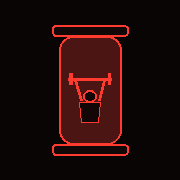
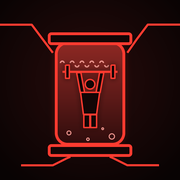
Add files via upload

Changed region(s): [[0.0, 0.1111, 1.0, 0.9444]]

diff --git a/exercices.js b/exercices.js
@@ -1,0 +1,54 @@
+// Format : [nom, muscle principal, secondaires (virgules), lieu (S=salle, M=maison, SM=les deux), étapes (séparées par |), id image optionnel]
+// Textes rédigés pour FORGE (aucune licence). Images : dépôt public free-exercise-db (Unlicense) via le champ 6.
+window.EXOS_RAW=[
+['Développé couché','Pectoraux','Épaules,Triceps','S','Allonge-toi, pieds au sol, omoplates serrées.|Descends la barre au milieu des pectoraux, coudes à 45°.|Pousse jusqu’à l’extension sans verrouiller les coudes.','Barbell_Bench_Press_-_Medium_Grip'],
+['Développé incliné haltères','Pectoraux','Épaules,Triceps','S','Règle le banc à 30°, haltères au niveau des épaules.|Pousse vers le haut en rapprochant les haltères.|Redescends lentement jusqu’à l’étirement des pectoraux.'],
+['Écarté couché haltères','Pectoraux','Épaules','S','Bras légèrement fléchis, haltères au-dessus de la poitrine.|Ouvre les bras en arc jusqu’à sentir l’étirement.|Ramène les haltères comme si tu serrais un arbre.'],
+['Pec deck (papillon)','Pectoraux','Épaules','S','Dos bien calé, poignées à hauteur de poitrine.|Rapproche les bras devant toi en contractant.|Reviens lentement sans lâcher la charge.'],
+['Pompes','Pectoraux','Triceps,Épaules,Abdominaux','M','Mains un peu plus larges que les épaules, corps gainé.|Descends la poitrine près du sol, coudes à 45°.|Pousse pour remonter sans cambrer.'],
+['Pompes déclinées','Pectoraux','Épaules,Triceps','M','Pieds surélevés sur une chaise, corps aligné.|Descends en contrôlant jusqu’à frôler le sol.|Remonte en poussant fort.'],
+['Dips aux barres parallèles','Pectoraux','Triceps,Épaules','SM','Penche légèrement le buste vers l’avant.|Descends jusqu’à 90° aux coudes.|Pousse pour remonter sans balancer.'],
+['Traction','Dos','Biceps,Avant-bras','SM','Prise un peu plus large que les épaules, bras tendus.|Tire les coudes vers le bas jusqu’au menton au-dessus de la barre.|Redescends lentement jusqu’à l’extension.','Pullups'],
+['Tirage vertical','Dos','Biceps','S','Cuisses calées sous les coussins, buste droit.|Tire la barre vers le haut de la poitrine.|Remonte en contrôlant.'],
+['Rowing barre','Dos','Biceps,Ischios,Avant-bras','S','Buste penché à 45°, dos plat, barre aux genoux.|Tire la barre vers le nombril.|Redescends sans arrondir le dos.'],
+['Rowing haltère un bras','Dos','Biceps,Épaules','SM','Un genou et une main sur un banc, dos plat.|Tire l’haltère vers la hanche, coude près du corps.|Redescends en étirant le dos.'],
+['Tirage horizontal poulie','Dos','Biceps,Épaules','S','Assis, buste droit, poignée à deux mains.|Tire vers le ventre en serrant les omoplates.|Reviens bras tendus sans te pencher.'],
+['Soulevé de terre','Dos','Fessiers,Ischios,Avant-bras','S','Pieds largeur de hanches, barre au-dessus des pieds.|Dos plat, pousse le sol et monte hanches et épaules ensemble.|Verrouille debout puis repose la barre en contrôle.'],
+['Superman','Dos','Fessiers','M','Allonge-toi sur le ventre, bras tendus devant.|Lève bras et jambes en même temps.|Tiens 2 secondes puis relâche.'],
+['Développé militaire','Épaules','Triceps','S','Barre sur le haut de la poitrine, abdos serrés.|Pousse au-dessus de la tête en passant le visage.|Redescends à la clavicule.'],
+['Développé Arnold','Épaules','Triceps','S','Haltères devant, paumes vers toi.|Monte en pivotant les paumes vers l’avant.|Redescends en inversant la rotation.'],
+['Élévations latérales','Épaules','','SM','Haltères le long du corps, coudes légèrement fléchis.|Lève les bras sur les côtés jusqu’à l’horizontale.|Redescends lentement sans élan.'],
+['Oiseau (arrière d’épaule)','Épaules','Dos','SM','Penche le buste, haltères sous toi.|Ouvre les bras sur les côtés en serrant les omoplates.|Redescends en contrôle.'],
+['Face pull','Épaules','Dos','S','Poulie haute avec corde, prise neutre.|Tire vers le visage en écartant les coudes.|Reviens lentement.'],
+['Pompes pike','Épaules','Triceps','M','Hanches hautes en V inversé.|Descends la tête entre les mains.|Pousse pour remonter.'],
+['Curl barre','Biceps','Avant-bras','S','Debout, barre en supination, coudes collés.|Monte la barre vers les épaules.|Redescends sans balancer le buste.','Barbell_Curl'],
+['Curl haltères','Biceps','Avant-bras','SM','Haltères le long du corps, paumes vers l’avant.|Plie les coudes en alternant les bras.|Redescends complètement.'],
+['Curl marteau','Biceps','Avant-bras','SM','Prise neutre (paumes face à face).|Monte l’haltère vers l’épaule sans bouger le coude.|Redescends en contrôle.'],
+['Curl concentré','Biceps','','S','Assis, coude contre l’intérieur de la cuisse.|Monte l’haltère en contractant fort.|Redescends lentement.'],
+['Extension triceps à la poulie','Triceps','','S','Coudes collés, barre ou corde à la poulie haute.|Étends les bras vers le bas.|Remonte jusqu’à 90° sans bouger les coudes.'],
+['Barre au front','Triceps','Épaules','S','Allongé, barre EZ bras tendus.|Plie les coudes pour descendre vers le front.|Étends en gardant les coudes fixes.'],
+['Dips sur banc','Triceps','Épaules,Pectoraux','M','Mains sur le bord d’un banc, jambes tendues.|Descends en pliant les coudes vers l’arrière.|Remonte en poussant.'],
+['Pompes diamant','Triceps','Pectoraux,Épaules','M','Mains rapprochées sous la poitrine.|Descends coudes près du corps.|Remonte en poussant.'],
+['Kickback triceps','Triceps','','SM','Buste penché, coude collé le long du corps.|Étends l’avant-bras vers l’arrière.|Reviens lentement.'],
+['Curl poignets','Avant-bras','','SM','Avant-bras posés sur les cuisses, paumes vers le haut.|Plie les poignets pour monter la charge.|Redescends complètement.'],
+['Crunch','Abdominaux','','M','Allongé, genoux fléchis, mains près des tempes.|Enroule le buste en décollant les épaules.|Redescends sans relâcher.'],
+['Gainage (planche)','Abdominaux','Épaules,Fessiers','M','Appui sur les avant-bras, corps aligné.|Serre abdos et fessiers.|Tiens sans cambrer.'],
+['Relevé de jambes','Abdominaux','','SM','Suspendu ou allongé, jambes tendues.|Monte les jambes jusqu’à l’horizontale ou plus.|Redescends lentement.'],
+['Russian twist','Abdominaux','','M','Assis, buste incliné, pieds levés.|Tourne les épaules d’un côté à l’autre.|Garde le dos droit.'],
+['Mountain climbers','Abdominaux','Épaules,Quadriceps','M','Position de pompe, bras tendus.|Ramène un genou vers la poitrine puis alterne vite.|Garde les hanches basses.'],
+['Roue abdominale','Abdominaux','Épaules,Dos','SM','À genoux, mains sur la roue.|Roule vers l’avant, dos plat.|Reviens en serrant les abdos.'],
+['Squat','Quadriceps','Fessiers,Ischios,Dos','S','Barre sur les trapèzes, pieds largeur d’épaules.|Descends hanches en arrière, genoux dans l’axe des pieds.|Pousse dans les talons pour remonter.','Barbell_Squat'],
+['Squat au poids du corps','Quadriceps','Fessiers','M','Bras devant, pieds largeur d’épaules.|Descends en gardant le dos droit.|Remonte en poussant dans les talons.'],
+['Presse à cuisses','Quadriceps','Fessiers,Ischios','S','Dos calé, pieds à largeur d’épaules.|Descends jusqu’à 90° aux genoux.|Pousse sans verrouiller les genoux.'],
+['Fentes','Quadriceps','Fessiers,Ischios','SM','Grand pas en avant, buste droit.|Descends le genou arrière vers le sol.|Pousse sur la jambe avant pour revenir.'],
+['Squat bulgare','Quadriceps','Fessiers','SM','Pied arrière posé sur un banc.|Descends en gardant le buste droit.|Remonte en poussant dans le talon avant.'],
+['Leg extension','Quadriceps','','S','Assis, coussin sur le bas des tibias.|Étends les jambes en contractant.|Redescends lentement.'],
+['Leg curl','Ischios','Mollets','S','Allongé, coussin au-dessus des talons.|Plie les genoux vers les fessiers.|Redescends en contrôle.'],
+['Soulevé de terre jambes tendues','Ischios','Fessiers,Dos','S','Jambes presque tendues, barre près des cuisses.|Pousse les hanches vers l’arrière, dos plat.|Remonte en serrant les fessiers.'],
+['Good morning','Ischios','Dos,Fessiers','S','Barre sur les trapèzes, genoux souples.|Penche le buste en poussant les hanches en arrière.|Remonte en contractant les fessiers.'],
+['Hip thrust','Fessiers','Ischios,Quadriceps','S','Haut du dos sur un banc, barre sur les hanches.|Pousse les hanches vers le haut.|Serre les fessiers 1 seconde puis redescends.'],
+['Pont fessier','Fessiers','Ischios','M','Allongé, genoux fléchis, pieds à plat.|Monte les hanches en serrant les fessiers.|Redescends sans poser complètement.'],
+['Kickback fessier','Fessiers','Ischios','SM','À quatre pattes, dos plat.|Pousse un talon vers le plafond.|Reviens sans cambrer.'],
+['Mollets debout','Mollets','','SM','Pointes de pieds sur une marche.|Monte sur la pointe le plus haut possible.|Redescends en étirant.'],
+['Mollets assis','Mollets','','S','Assis, genoux sous le coussin.|Monte les talons à fond.|Redescends lentement.']
+];

diff --git a/seance.html b/seance.html
@@ -6,9 +6,9 @@
 <meta name="apple-mobile-web-app-status-bar-style" content="black-translucent"><meta name="apple-mobile-web-app-title" content="FORGE">
 <link rel="manifest" href="manifest.webmanifest"><link rel="apple-touch-icon" href="icons/apple-touch-icon.png"><link rel="icon" href="icons/icon-192.png"><title>FORGE — Séance</title><link rel="preconnect" href="https://fonts.googleapis.com"><link rel="preconnect" href="https://fonts.gstatic.com" crossorigin>
 <link href="https://fonts.googleapis.com/css2?family=Archivo+Black&family=Space+Grotesk:wght@400;500;600&display=swap" rel="stylesheet">
-<link rel="stylesheet" href="base.css?v=5"><link rel="stylesheet" href="app.css?v=5">
+<link rel="stylesheet" href="base.css?v=6"><link rel="stylesheet" href="app.css?v=6">
 <script src="https://cdn.jsdelivr.net/npm/@supabase/supabase-js@2"></script><script src="supabase.js"></script></head>
-<body><div class="app"><svg class="cab" viewBox="0 0 390 844" preserveAspectRatio="none" aria-hidden="true"><g fill="none" stroke-linecap="round"><path d="M386 0C386 90 378 110 381 190S388 320 382 430" stroke="#3a0c0a" stroke-width="7"/><path class="cur" d="M386 0C386 90 378 110 381 190S388 320 382 430" stroke="#ff4a3d" stroke-width="2"/><path d="M4 300C4 380 12 400 8 500S3 640 7 760" stroke="#3a0c0a" stroke-width="7"/><path class="cur" d="M4 300C4 380 12 400 8 500S3 640 7 760" stroke="#ff4a3d" stroke-width="2"/></g></svg><div class="sl"></div><div class="r"><div class="r" style="gap:12px"><a class="c pf" href="profil.html" aria-label="Profil"><svg width="24" height="24" viewBox="0 0 22 22" aria-hidden="true"><circle cx="11" cy="8" r="4" fill="none" stroke="#ff4a3d" stroke-width="2"/><path d="M3 20c0-5 4-7 8-7s8 2 8 7" fill="none" stroke="#ff4a3d" stroke-width="2"/></svg><i></i></a><div class="hud" style="line-height:1.7"><span class="rd">Sujet 001</span><br><span id="an">Analyse en cours · 0/6</span></div></div><svg width="64" height="22" viewBox="0 0 100 30" preserveAspectRatio="none" aria-hidden="true"><polyline points="0,15 20,15 26,4 33,26 40,15 60,15 66,8 72,22 78,15 100,15" fill="none" stroke="#ff4a3d" stroke-opacity=".3" stroke-width="1.5" vector-effect="non-scaling-stroke"/><polyline class="hb" pathLength="100" points="0,15 20,15 26,4 33,26 40,15 60,15 66,8 72,22 78,15 100,15" fill="none" stroke="#ff4a3d" stroke-width="2" vector-effect="non-scaling-stroke"/></svg></div>
+<body><div class="app sa" id="pg"><svg class="cab" viewBox="0 0 390 844" preserveAspectRatio="none" aria-hidden="true"><g fill="none" stroke-linecap="round"><path d="M386 0C386 90 378 110 381 190S388 320 382 430" stroke="#3a0c0a" stroke-width="7"/><path class="cur" d="M386 0C386 90 378 110 381 190S388 320 382 430" stroke="#ff4a3d" stroke-width="2"/><path d="M4 300C4 380 12 400 8 500S3 640 7 760" stroke="#3a0c0a" stroke-width="7"/><path class="cur" d="M4 300C4 380 12 400 8 500S3 640 7 760" stroke="#ff4a3d" stroke-width="2"/></g></svg><div class="sl"></div><div class="r"><div class="r" style="gap:12px"><a class="c pf" href="profil.html" aria-label="Profil"><svg width="24" height="24" viewBox="0 0 22 22" aria-hidden="true"><circle cx="11" cy="8" r="4" fill="none" stroke="#ff4a3d" stroke-width="2"/><path d="M3 20c0-5 4-7 8-7s8 2 8 7" fill="none" stroke="#ff4a3d" stroke-width="2"/></svg><i></i></a><div class="hud" style="line-height:1.7"><span class="rd">Sujet 001</span><br><span id="an">Analyse en cours · 0/6</span></div></div><svg width="64" height="22" viewBox="0 0 100 30" preserveAspectRatio="none" aria-hidden="true"><polyline points="0,15 20,15 26,4 33,26 40,15 60,15 66,8 72,22 78,15 100,15" fill="none" stroke="#ff4a3d" stroke-opacity=".3" stroke-width="1.5" vector-effect="non-scaling-stroke"/><polyline class="hb" pathLength="100" points="0,15 20,15 26,4 33,26 40,15 60,15 66,8 72,22 78,15 100,15" fill="none" stroke="#ff4a3d" stroke-width="2" vector-effect="non-scaling-stroke"/></svg></div>
 <div class="r nm"><input class="t sn" id="sn" maxlength="30" placeholder="Nom de la séance" aria-label="Nom de la séance" autocomplete="off"><svg width="18" height="18" viewBox="0 0 18 18" aria-hidden="true" style="flex:none"><path d="M3 15l1-4 8-8 3 3-8 8z" fill="none" stroke="#ff4a3d" stroke-width="1.6"/></svg></div>
 <div class="c g hrc" style="padding:8px 14px"><div class="r hud"><span>Rythme cardiaque</span><span>148 BPM</span></div><svg width="100%" height="30" viewBox="0 0 100 30" preserveAspectRatio="none" aria-hidden="true"><polyline points="0,15 20,15 26,4 33,26 40,15 60,15 66,8 72,22 78,15 100,15" fill="none" stroke="#ff4a3d" stroke-opacity=".3" stroke-width="1.5" vector-effect="non-scaling-stroke"/><polyline class="hb" pathLength="100" points="0,15 20,15 26,4 33,26 40,15 60,15 66,8 72,22 78,15 100,15" fill="none" stroke="#ff4a3d" stroke-width="2" vector-effect="non-scaling-stroke"/></svg></div>
 <div class="c r rc"><div><div class="hud">Récupération</div><div class="t tm" id="tm">01:00</div></div>
@@ -16,7 +16,7 @@
 <div class="grow xl" id="xl"></div>
 <button class="b ghost" id="ae" type="button">+ Ajouter un exercice</button>
 <button class="b" id="vd" type="button">Valider la mesure</button><nav class="nav"><a class="" href="accueil.html">Accueil</a><a class=" soon" href="#" data-soon>Notes</a><a class=" soon" href="#" data-soon>Budget</a><a class=" soon" href="#" data-soon>Fioles</a></nav></div>
-<script src="forge.js?v=5"></script>
+<script src="forge.js?v=6"></script>
 <script>
 const $=i=>document.getElementById(i);
 
@@ -27,9 +27,9 @@ const save=()=>{try{localStorage.setItem(KEY,JSON.stringify(S))}catch(e){}},cl=v
 const CK='<svg width="16" height="16" viewBox="0 0 16 16" aria-hidden="true"><path d="M3 8.5l3.5 3.5L13 4.5" fill="none" stroke="currentColor" stroke-width="2.2"/></svg>';
 $('sn').value=S.nom;$('sn').oninput=e=>{S.nom=e.target.value;save()};
 function draw(){
- const sc=$('xl').scrollTop,W=Forge.W();
+ const pg=$('pg'),sc=pg.scrollTop,W=Forge.W();
  $('xl').innerHTML=S.ex.map((e,i)=>`<div class="c blk" data-e="${i}"><div class="bh"><input class="t en" maxlength="40" autocomplete="off" placeholder="Nom de l’exercice" aria-label="Nom de l’exercice" value="${esc(e.n)}"><button type="button" class="dx" aria-label="Retirer l’exercice">×</button></div><div class="ms">${e.s.map((m,k)=>`<div class="c r mr${m.ok?' ok':''}" data-k="${k}"><span>Mesure ${k+1}</span><span class="in"><input class="pi" inputmode="decimal" autocomplete="off" placeholder="${W}" value="${cl(m.p)}"${m.ok?' readonly':''}><span>×</span><input class="rp" inputmode="numeric" autocomplete="off" placeholder="rép" value="${cl(m.r)}"${m.ok?' readonly':''}><button type="button" class="cb" aria-label="Confirmer la mesure">${CK}</button></span></div>`).join('')}</div>${e.s.length<MAXM?'<button type="button" class="b sm ghost am">+ Ajouter une mesure</button>':''}</div>`).join('');
- $('xl').scrollTop=sc;
+ pg.scrollTop=sc;
  let a=0,b=0;S.ex.forEach(x=>x.s.forEach(m=>{b++;if(m.ok)a++}));$('an').textContent='Analyse en cours · '+a+'/'+b;save();
 }
 $('xl').addEventListener('input',e=>{const t=e.target,bl=t.closest('.blk');if(!bl)return;const x=S.ex[+bl.dataset.e];
@@ -42,7 +42,7 @@ $('xl').addEventListener('click',e=>{const bl=e.target.closest('.blk');if(!bl)re
  if(!m.ok&&!(+m.p>0&&+m.r>0))return Forge.toast('Remplis le poids et les répétitions');
  m.ok=!m.ok;draw();
 });
-$('ae').onclick=()=>{if(S.ex.length>=MAXE)return Forge.toast('15 exercices maximum');S.ex.push({n:'',s:[{p:'',r:'',ok:false}]});draw();const xl=$('xl');xl.scrollTop=xl.scrollHeight;xl.querySelector('.blk:last-child .en').focus()};
+$('ae').onclick=()=>{if(S.ex.length>=MAXE)return Forge.toast('15 exercices maximum');save();Forge.go('ajouter.html')};
 // Récupération
 const PL=`<svg width="14" height="14" viewBox="0 0 14 14" aria-hidden="true"><path d="M3 1.5l9 5.5-9 5.5z" fill="currentColor"/></svg>`,PA=`<svg width="14" height="14" viewBox="0 0 14 14" aria-hidden="true"><path d="M3 1.5h3v11H3zM8 1.5h3v11H8z" fill="currentColor"/></svg>`;let rem=60,last=60,run=false,end=0,iv;
 const mmss=s=>String(Math.floor(s/60)).padStart(2,'0')+':'+String(s%60).padStart(2,'0');
@@ -77,5 +77,8 @@ $('vd').onclick=async()=>{
   setTimeout(()=>location.href='accueil.html',1900);
  }catch(err){Forge.toast(err.message||'Enregistrement impossible');vd.disabled=false;vd.textContent='Valider la mesure'}
 };
+// Page entière scrollable, sans rebond ni sortie de la page
+(()=>{const p=$('pg');let y0=0;p.addEventListener('touchstart',e=>{y0=e.touches[0].clientY},{passive:true});
+p.addEventListener('touchmove',e=>{const d=e.touches[0].clientY-y0,top=p.scrollTop<=0,bot=p.scrollTop+p.clientHeight>=p.scrollHeight-1;if(((top&&d>0)||(bot&&d<0))&&e.cancelable)e.preventDefault()},{passive:false})})();
 draw();tdraw();
 </script></body></html>

diff --git a/ajouter.html b/ajouter.html
@@ -1,0 +1,66 @@
+<!doctype html>
+<html lang="fr"><head><meta charset="utf-8">
+<meta name="viewport" content="width=device-width,initial-scale=1,viewport-fit=cover,user-scalable=no">
+<meta name="theme-color" content="#0d0607"><meta name="color-scheme" content="dark">
+<meta name="mobile-web-app-capable" content="yes"><meta name="apple-mobile-web-app-capable" content="yes">
+<meta name="apple-mobile-web-app-status-bar-style" content="black-translucent"><meta name="apple-mobile-web-app-title" content="FORGE">
+<link rel="manifest" href="manifest.webmanifest"><link rel="apple-touch-icon" href="icons/apple-touch-icon.png"><link rel="icon" href="icons/icon-192.png"><title>FORGE — Ajouter un exercice</title><link rel="preconnect" href="https://fonts.googleapis.com"><link rel="preconnect" href="https://fonts.gstatic.com" crossorigin>
+<link href="https://fonts.googleapis.com/css2?family=Archivo+Black&family=Space+Grotesk:wght@400;500;600&display=swap" rel="stylesheet">
+<link rel="stylesheet" href="base.css?v=6"><link rel="stylesheet" href="app.css?v=6">
+<style>
+.app.aj{padding-bottom:calc(12px + var(--sb))}
+.sr{width:100%;height:44px;padding:0 14px;background:#1a0809;border:1px solid #ff4a3d88;border-radius:6px;color:#ffd9d5;font:500 16px 'Space Grotesk',sans-serif;outline:0}
+.sr:focus{border-color:#ff4a3d;box-shadow:0 0 8px #ff4a3d88}
+.fr{display:flex;gap:6px;overflow-x:auto;touch-action:pan-x;overscroll-behavior:contain;padding-bottom:2px}
+.fc{flex:none;height:32px;padding:0 12px;border:1px solid #ff4a3d55;border-radius:16px;background:#170a0b;color:#c98f89;font:600 12px 'Space Grotesk',sans-serif;white-space:nowrap}
+.fc.on{background:#ff4a3d;color:#0d0607;box-shadow:0 0 8px #ff4a3d}
+.ex{padding:0}.eh{display:flex;align-items:center;gap:10px;padding:10px 12px}
+.et{flex:1;min-width:0}.et b{display:block;font-size:15px;font-weight:600}.et .m{font-size:12px}
+.ex.pk{border-color:#ff4a3d;box-shadow:0 0 10px #a3180f77}.ex.pk .cb{background:#ff4a3d;color:#0d0607}
+.ed{display:none;padding:4px 14px 14px;border-top:1px solid #3a1210;font-size:14px;color:#ffd9d5}.ex.op .ed{display:block}
+.ed img{display:block;width:100%;max-height:220px;object-fit:contain;background:#0d0607;border:1px solid #3a1210;border-radius:6px;margin:10px 0}
+.ed ol{margin:8px 0 0;padding-left:20px;line-height:1.5}.ed .hud{margin-top:10px}
+.vide{text-align:center;color:#c98f89;padding:30px 0}
+</style></head>
+<body><div class="app aj"><div class="sl"></div>
+<div class="r" style="justify-content:flex-start;gap:12px"><button class="ar" id="bk" type="button" aria-label="Retour">‹</button><div class="t" style="font-size:26px">Ajouter</div></div>
+<input class="sr" id="q" type="search" placeholder="Rechercher un exercice" autocomplete="off" aria-label="Rechercher">
+<div class="fr" id="mu"></div>
+<div class="fr" id="lu"></div>
+<div class="grow xl" id="ls"></div>
+<button class="b" id="ok" type="button" disabled>Ajouter</button></div>
+<script src="forge.js?v=6"></script><script src="exercices.js"></script>
+<script>
+const $=i=>document.getElementById(i),KEY='forge_seance_v2',MAXE=15;
+const nz=s=>String(s).toLowerCase().normalize('NFD').replace(/[\u0300-\u036f]/g,''),esc=s=>String(s).replace(/[&<>"]/g,c=>({'&':'&amp;','<':'&lt;','>':'&gt;','"':'&quot;'}[c]));
+const DB=EXOS_RAW.map(([n,p,s,l,st,im])=>({n,p,s:s?s.split(','):[],l,st:st.split('|'),im,z:nz(n+' '+p+' '+s)}));
+const MUS=[...new Set(DB.map(e=>e.p))],pk=new Set(),op=new Set(),mf=new Set();let lf='',IMG='https://raw.githubusercontent.com/yuhonas/free-exercise-db/main/exercises/';
+function chips(){
+ $('mu').innerHTML=MUS.map(m=>`<button type="button" class="fc${mf.has(m)?' on':''}" data-m="${m}">${m}</button>`).join('');
+ $('lu').innerHTML=[['','Tous'],['S','Salle'],['M','Maison']].map(([v,t])=>`<button type="button" class="fc${lf===v?' on':''}" data-l="${v}">${t}</button>`).join('')}
+function draw(){
+ const q=nz($('q').value.trim()),sc=$('ls').scrollTop;
+ const r=DB.filter(e=>(!mf.size||mf.has(e.p))&&(!lf||e.l.includes(lf))&&(!q||q.split(/\s+/).every(w=>e.z.includes(w))));
+ $('ls').innerHTML=r.length?r.map(e=>{const i=DB.indexOf(e);return`<div class="c ex${pk.has(i)?' pk':''}${op.has(i)?' op':''}" data-i="${i}"><div class="eh"><div class="et"><b>${esc(e.n)}</b><div class="m">${e.p}${e.s.length?' · '+e.s.join(', '):''}</div></div><button type="button" class="cb sel" aria-label="Sélectionner">✓</button></div><div class="ed">${op.has(i)&&e.im?`<img data-b="${e.im}" src="${IMG+e.im}/0.jpg" alt="">`:''}<div class="hud">Muscle principal</div>${e.p}${e.s.length?'<div class="hud">Muscles secondaires</div>'+e.s.join(', '):''}<div class="hud">Exécution</div><ol>${e.st.map(s=>'<li>'+esc(s)+'</li>').join('')}</ol></div></div>`}).join(''):'<div class="vide">Aucun exercice trouvé</div>';
+ $('ls').scrollTop=sc;const n=pk.size;$('ok').disabled=!n;$('ok').textContent=n?'Ajouter ('+n+')':'Ajouter'}
+$('q').oninput=draw;
+$('mu').onclick=e=>{const b=e.target.closest('[data-m]');if(!b)return;const m=b.dataset.m;mf.has(m)?mf.delete(m):mf.add(m);chips();draw()};
+$('lu').onclick=e=>{const b=e.target.closest('[data-l]');if(!b)return;lf=b.dataset.l;chips();draw()};
+$('ls').onclick=e=>{const c=e.target.closest('.ex');if(!c)return;const i=+c.dataset.i;
+ if(e.target.closest('.sel')){if(pk.has(i))pk.delete(i);else{pk.add(i)}}else{op.has(i)?op.delete(i):op.add(i)}draw()};
+// images : alternance départ / arrivée du mouvement ; masquées si indisponibles
+$('ls').addEventListener('error',e=>{if(e.target.tagName==='IMG')e.target.remove()},true);
+let fl=0;setInterval(()=>{fl^=1;document.querySelectorAll('#ls img[data-b]').forEach(im=>im.src=IMG+im.dataset.b+'/'+fl+'.jpg')},900);
+$('bk').onclick=()=>Forge.go('seance.html');
+$('ok').onclick=()=>{
+ let S;try{S=JSON.parse(localStorage.getItem(KEY))}catch(e){}
+ if(!S||!S.ex||Date.now()-S.t0>432e5)S={nom:Forge.PLAN.nom,t0:Date.now(),ex:[]};
+ S.ex=S.ex.filter(x=>x.n.trim()||x.s.some(m=>m.ok||m.p||m.r));
+ const free=MAXE-S.ex.length,add=[...pk].slice(0,Math.max(0,free));
+ if(!add.length)return Forge.toast('15 exercices maximum');
+ add.forEach(i=>S.ex.push({n:DB[i].n,s:[{p:'',r:'',ok:false}]}));
+ try{localStorage.setItem(KEY,JSON.stringify(S))}catch(e){}
+ if(add.length<pk.size)Forge.toast('15 exercices maximum');
+ Forge.go('seance.html')};
+chips();draw();
+</script></body></html>

diff --git a/app.css b/app.css
@@ -67,3 +67,10 @@ button{font-family:inherit}
 .sw{width:84px;height:56px;padding:0;border:2px solid #ff4a3d;border-radius:8px;background:linear-gradient(135deg,#ff4a3d 50%,#3a0c0a 50%);box-shadow:0 0 16px #ff4a3d}
 .av{width:64px;height:64px;flex:none;display:flex;align-items:center;justify-content:center;border:2px solid #ff4a3d;border-radius:32px;background:#2a0b09;box-shadow:0 0 18px #ff4a3d}
 .pfa{background:#ff4a3d}.pfa i{background:#0d0607;box-shadow:none}.k{font-size:12px;letter-spacing:2px;text-transform:uppercase;color:#ff9a92}
+
+/* Verrou global : aucune sortie / rebond de la page */
+html,body{overflow:hidden;overscroll-behavior:none}body{position:fixed;inset:0;width:100%}
+/* Page entière scrollable (séance) */
+.app.sa{overflow-x:hidden;overflow-y:auto;overscroll-behavior:none;-webkit-overflow-scrolling:touch;touch-action:pan-y}
+.app.sa>.xl{flex:none;overflow:visible}
+.sa .cab,.sa .sl,.sa .nav{position:fixed}

diff --git a/sw.js b/sw.js
@@ -1,4 +1,4 @@
-const V='forge-v5',SHELL=['./','index.html','login.html','inscription.html','accueil.html','seance.html','profil.html','base.css','app.css','forge.js','supabase.js','manifest.webmanifest','icons/icon-192.png','icons/icon-512.png','icons/apple-touch-icon.png'];
+const V='forge-v6',SHELL=['./','index.html','login.html','inscription.html','accueil.html','seance.html','ajouter.html','exercices.js','profil.html','base.css','app.css','forge.js','supabase.js','manifest.webmanifest','icons/icon-192.png','icons/icon-512.png','icons/apple-touch-icon.png'];
 self.addEventListener('install',e=>{e.waitUntil(caches.open(V).then(c=>Promise.all(SHELL.map(u=>c.add(new Request(u,{cache:'reload'}))))));self.skipWaiting()});
 self.addEventListener('activate',e=>{e.waitUntil(caches.keys().then(k=>Promise.all(k.filter(x=>x!==V).map(x=>caches.delete(x)))).then(()=>self.clients.claim()))});
 self.addEventListener('fetch',e=>{
